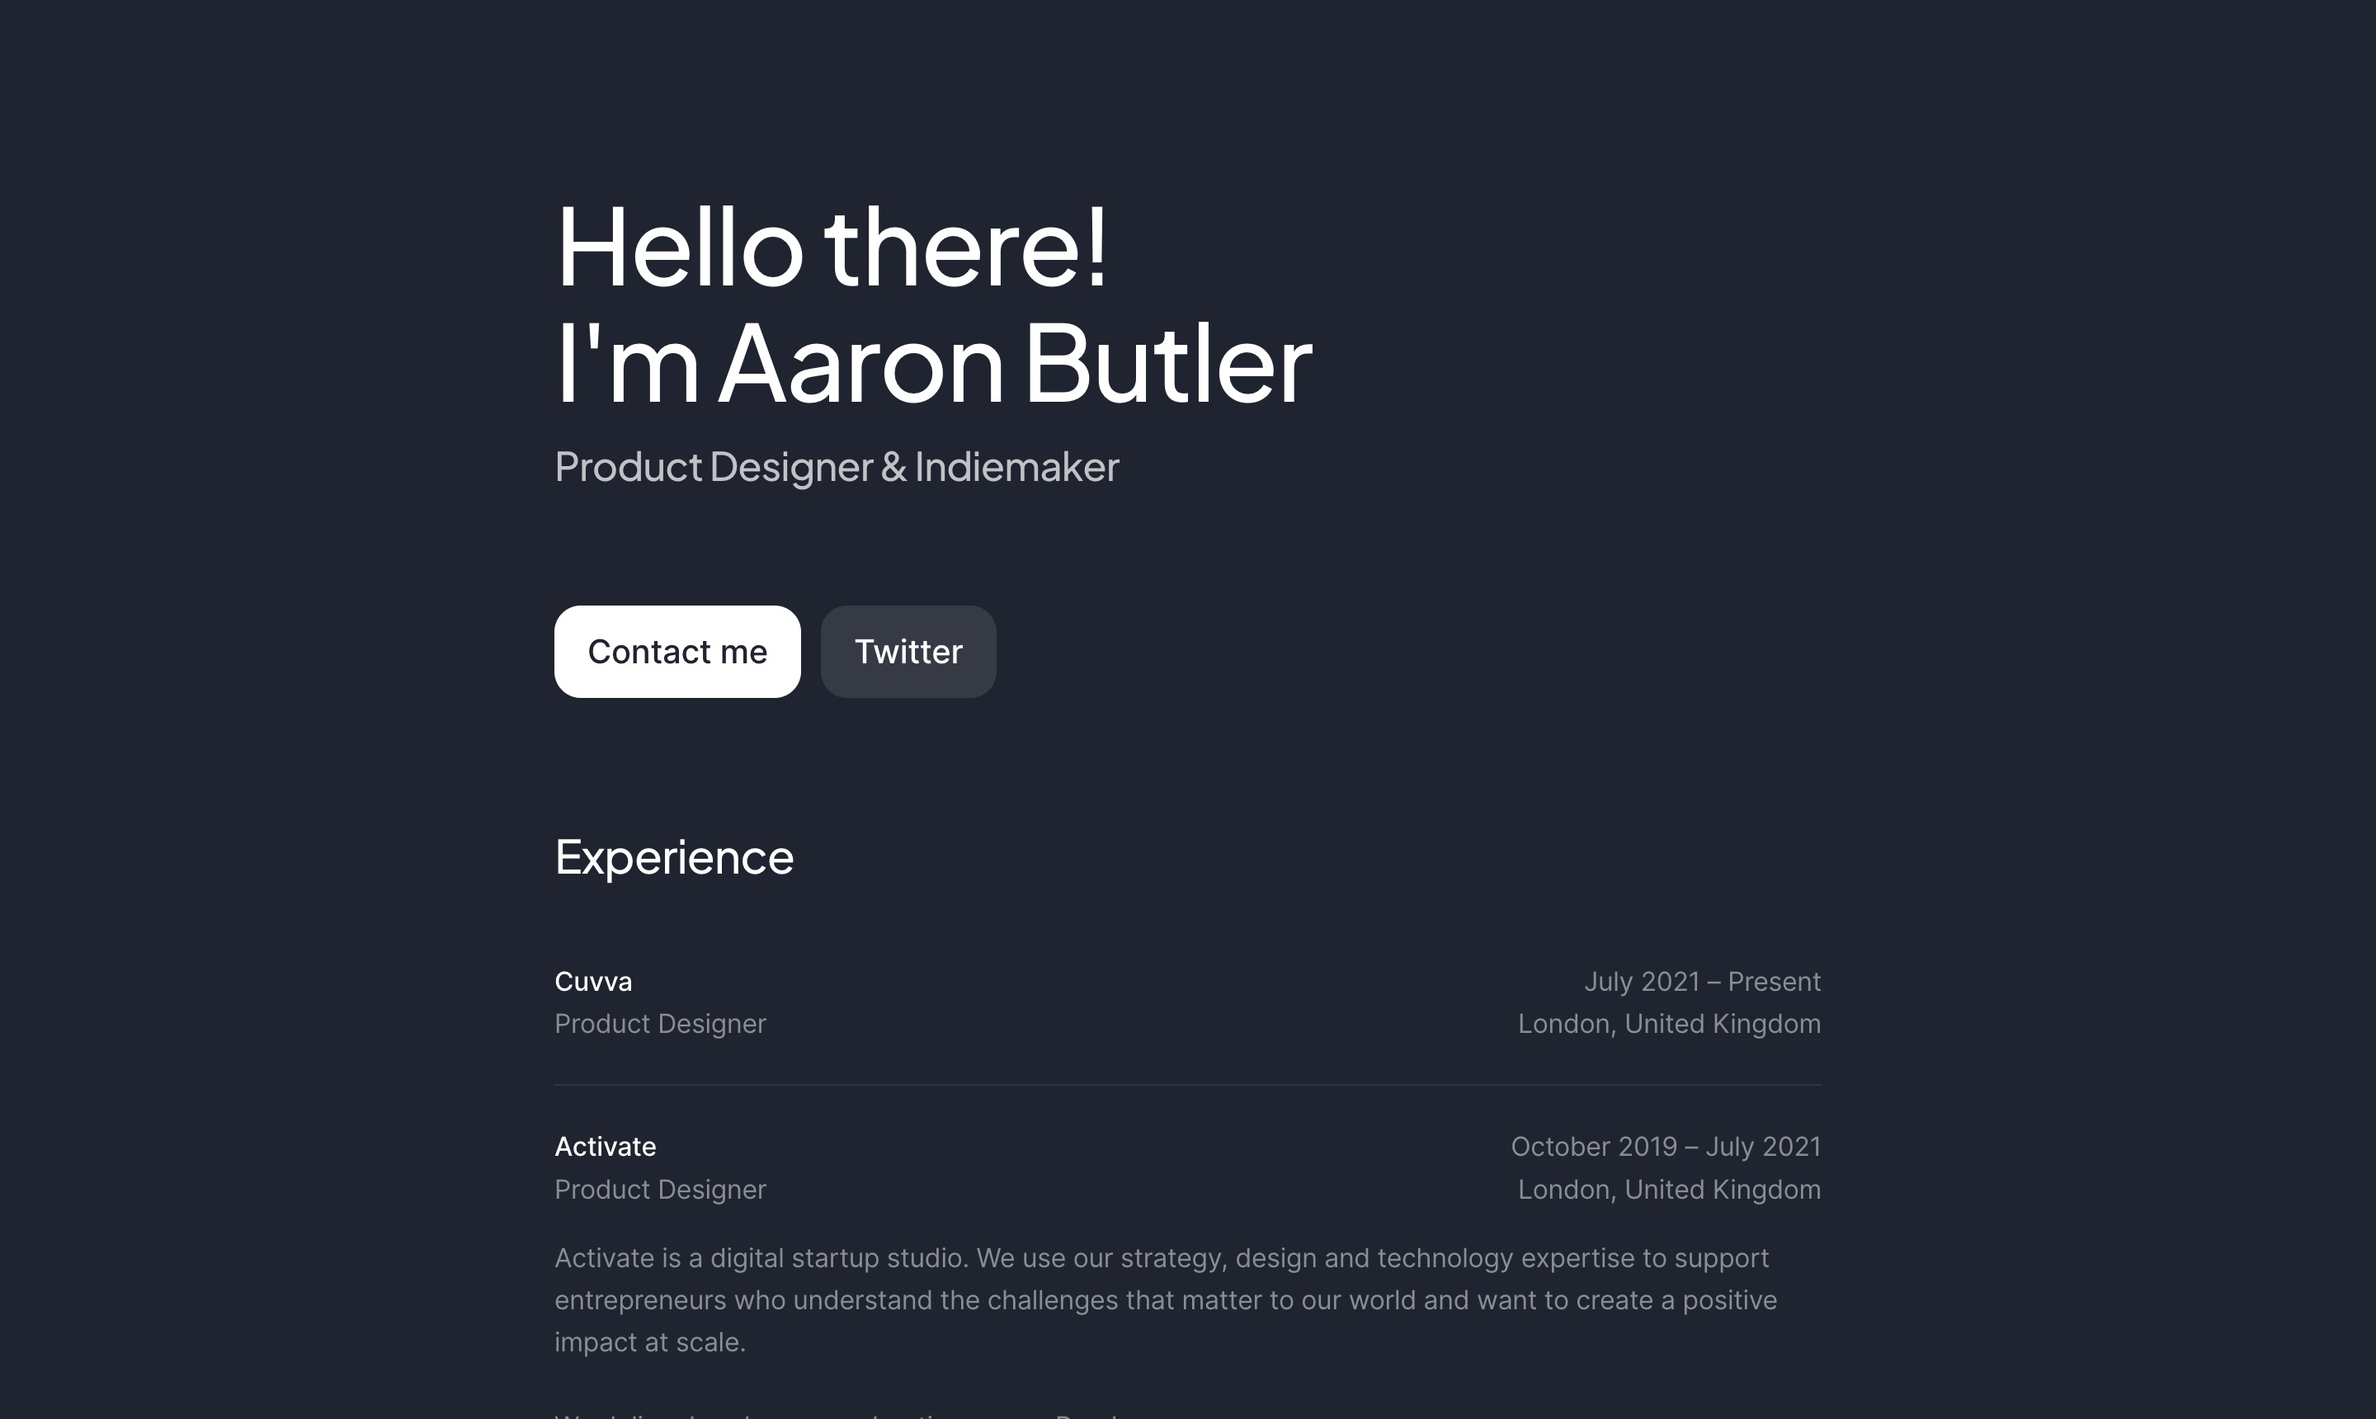
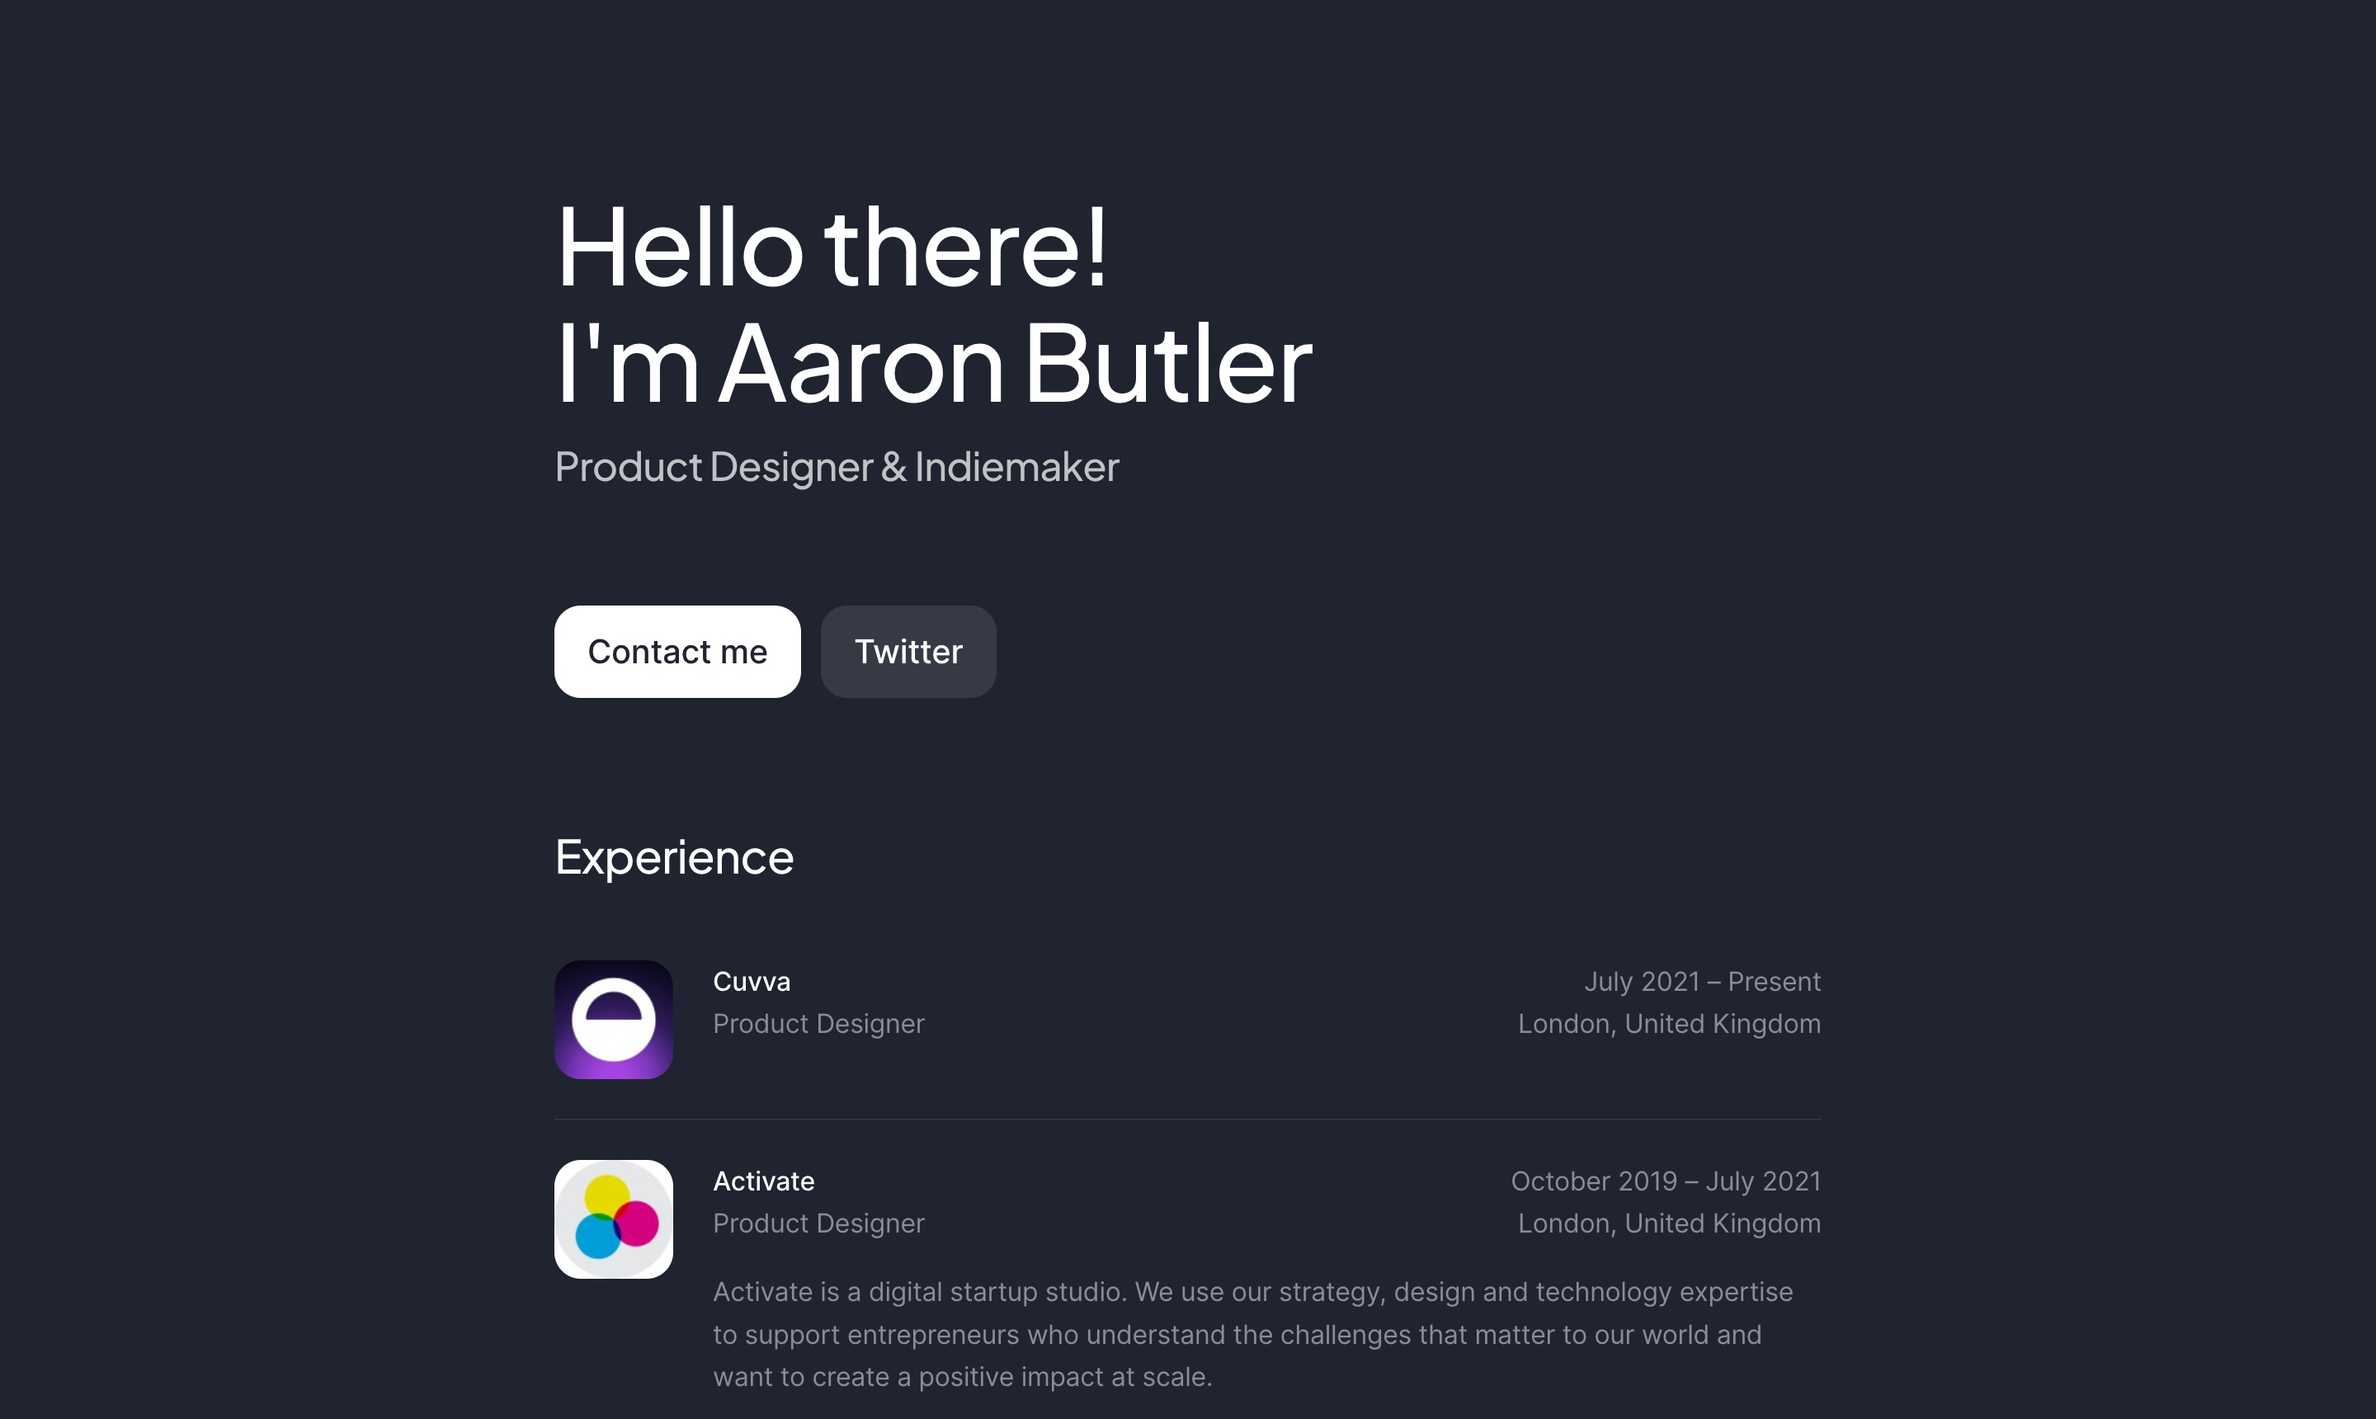
update metro profiles and previews

Changed region(s): [[0.2188, 0.8012, 0.7812, 0.986], [0.2188, 0.6779, 0.375, 0.7703]]

diff --git a/components/profile/MetroProfileDark.js b/components/profile/MetroProfileDark.js
@@ -304,8 +304,7 @@ const MetroProfileDark = (props) => {
                                     </a>
                                   </div>
                                   : null} */}
-                                {props.logoVisibility && props.logoVisibility.sideProjects ?
-                                  (sideProject.logo_url ?
+                                {sideProject.logo_url ?
                                     <div className="mb-3 mb-lg-0 mr-0 mr-lg-4">
                                       <a target="_blank" href={sideProject.url && convertToLink(sideProject.url)} className="d-block position-relative" style={{ width: '72px', height: '72px', minWidth: '72px', minHeight: '72px', maxWidth: '72px', maxHeight: '72px', overflow: 'hidden' }}>
                                         {/* <img 
@@ -333,7 +332,7 @@ const MetroProfileDark = (props) => {
                                     <div className="bg-light-200 radius-3 d-flex align-items-center justify-content-center mb-3 mb-lg-0 mr-0 mr-lg-4" style={{ width: '72px', height: '72px', minWidth: '72px', minHeight: '72px' }}>
                                       <Icon icon={ICONS.SIDE_PROJECTS} size='32' className="fill-light-700" />
                                     </div>
-                                  ) : null}
+                                  }
                                 <div className="w-100" style={props.logoVisibility && props.logoVisibility.sideProjects ? {marginTop: '10px'} : null}>
                                   <div className={`${profileStyles.jobContent}`}>
                                     <div className="">
@@ -379,8 +378,7 @@ const MetroProfileDark = (props) => {
                                     </a>
                                   </div>
                                   : null} */}
-                                {props.logoVisibility && props.logoVisibility.experience ?
-                                  (job.logo_url ?
+                                {job.logo_url ?
                                     <div className="mb-3 mb-lg-0 mr-0 mr-lg-4">
                                       <a target="_blank" href={job.company_linkedin_profile_url && convertToLink(job.company_linkedin_profile_url)} className="d-block position-relative" style={{ width: '72px', height: '72px', minWidth: '72px', minHeight: '72px', maxWidth: '72px', maxHeight: '72px', overflow: 'hidden' }}>
                                         {/* <img 
@@ -408,7 +406,7 @@ const MetroProfileDark = (props) => {
                                     <div className="bg-light-200 radius-3 d-flex align-items-center justify-content-center mb-3 mb-lg-0 mr-0 mr-lg-4" style={{ width: '72px', height: '72px', minWidth: '72px', minHeight: '72px' }}>
                                       <Icon icon={ICONS.WORK} size='32' className="fill-light-700" />
                                     </div>
-                                  ) : null}
+                                  }
                                 <div className="w-100" style={props.logoVisibility && props.logoVisibility.experience ? {marginTop: '10px'} : null}>
                                   <div className={`${profileStyles.jobContent}`}>
                                     <div className="">
@@ -502,8 +500,7 @@ const MetroProfileDark = (props) => {
                                   <img className={styles.experienceImage} src={school.logo_url ? school.logo_url : null} />
                                 </div>
                                 : null} */}
-                                {props.logoVisibility && props.logoVisibility.education ?
-                                  (school.logo_url ?
+                                {school.logo_url ?
                                     <div className="mb-3 mb-lg-0 mr-0 mr-lg-4">
                                       <a target="_blank" href={convertToLink(school.school_linkedin_profile_url)} className="d-block position-relative" style={{ width: '72px', height: '72px', minWidth: '72px', minHeight: '72px', maxWidth: '72px', maxHeight: '72px', overflow: 'hidden' }}>
                                         <img
@@ -524,10 +521,10 @@ const MetroProfileDark = (props) => {
                                       </a>
                                     </div>
                                     :
-                                    <div className="bg-light-20{0 radius-3 d-flex align-items-center justify-content-center mb-3 mb-lg-0 mr-0 mr-lg-4" style={{ width: '72px', height: '72px', minWidth: '72px', minHeight: '72px' }}>
+                                    <div className="bg-light-200 radius-3 d-flex align-items-center justify-content-center mb-3 mb-lg-0 mr-0 mr-lg-4" style={{ width: '72px', height: '72px', minWidth: '72px', minHeight: '72px' }}>
                                       <Icon icon={ICONS.SCHOOL} size='32' className="fill-light-700" />
                                     </div>
-                                  ) : null}
+                                  }
                                 <div className="w-100" style={props.logoVisibility && props.logoVisibility.education ? {marginTop: '10px'} : null}>
                                   <div className={`${profileStyles.jobContent}`}>
                                     <div className="">
@@ -571,8 +568,7 @@ const MetroProfileDark = (props) => {
                           return (
                             <div key={index} className={`${profileStyles.job} py-4`}>
                               <div className="d-flex flex-column flex-lg-row">
-                                {props.logoVisibility && props.logoVisibility.volunteering ?
-                                  (volunteer.logo_url ?
+                                {volunteer.logo_url ?
                                     <div className="mb-3 mb-lg-0 mr-0 mr-lg-4">
                                       <a target="_blank" href={convertToLink(volunteer.company_linkedin_profile_url)} className="d-block position-relative" style={{ width: '72px', height: '72px', minWidth: '72px', minHeight: '72px', maxWidth: '72px', maxHeight: '72px', overflow: 'hidden' }}>
                                         {/* <img 
@@ -600,7 +596,7 @@ const MetroProfileDark = (props) => {
                                     <div className="bg-light-200 radius-3 d-flex align-items-center justify-content-center mb-3 mb-lg-0 mr-0 mr-lg-4" style={{ width: '72px', height: '72px', minWidth: '72px', minHeight: '72px' }}>
                                       <Icon icon={ICONS.VOLUNTEERING} size='32' className="fill-light-700" />
                                     </div>
-                                  ) : null}
+                                  }
                                 <div className="w-100" style={props.logoVisibility && props.logoVisibility.volunteering ? {marginTop: '10px'} : null}>
                                   <div className={`${profileStyles.jobContent}`}>
                                     <div className="">

diff --git a/components/profile/MetroProfile.js b/components/profile/MetroProfile.js
@@ -319,8 +319,8 @@ const MetroProfile = (props) => {
                                     </a>
                                   </div>
                                   : null} */}
-                                {props.logoVisibility && props.logoVisibility.sideProjects ?
-                                  (sideProject.logo_url ?
+                                
+                                  {sideProject.logo_url ?
                                     <div className="mb-3 mb-lg-0 mr-0 mr-lg-4">
                                       <a target="_blank" href={sideProject.url && convertToLink(sideProject.url)} className="d-block position-relative" style={{ width: '72px', height: '72px', minWidth: '72px', minHeight: '72px', maxWidth: '72px', maxHeight: '72px', overflow: 'hidden' }}>
                                         {/* <img 
@@ -348,7 +348,7 @@ const MetroProfile = (props) => {
                                     <div className="bg-dark-200 radius-3 d-flex align-items-center justify-content-center mb-3 mb-lg-0 mr-0 mr-lg-4" style={{ width: '72px', height: '72px', minWidth: '72px', minHeight: '72px' }}>
                                       <Icon icon={ICONS.SIDE_PROJECTS} size='32' className="fill-dark-700" />
                                     </div>
-                                  ) : null}
+                                  }
                                 <div className="w-100" style={props.logoVisibility && props.logoVisibility.sideProjects ? {marginTop: '10px'} : null}>
                                   <div className={`${profileStyles.jobContent}`}>
                                     <div className="">
@@ -395,8 +395,7 @@ const MetroProfile = (props) => {
                                     </a>
                                   </div>
                                   : null} */}
-                                {props.logoVisibility && props.logoVisibility.experience ?
-                                  (job.logo_url ?
+                                {job.logo_url ?
                                     <div className="mb-3 mb-lg-0 mr-0 mr-lg-4">
                                       <a target="_blank" href={job.company_linkedin_profile_url && convertToLink(job.company_linkedin_profile_url)} className="d-block position-relative" style={{ width: '72px', height: '72px', minWidth: '72px', minHeight: '72px', maxWidth: '72px', maxHeight: '72px', overflow: 'hidden' }}>
                                         {/* <img 
@@ -424,7 +423,7 @@ const MetroProfile = (props) => {
                                     <div className="bg-dark-200 radius-3 d-flex align-items-center justify-content-center mb-3 mb-lg-0 mr-0 mr-lg-4" style={{ width: '72px', height: '72px', minWidth: '72px', minHeight: '72px' }}>
                                       <Icon icon={ICONS.WORK} size='32' className="fill-dark-700" />
                                     </div>
-                                  ) : null}
+                                  }
                                 <div className="w-100" style={props.logoVisibility && props.logoVisibility.experience ? {marginTop: '10px'} : null}>
                                   <div className={`${profileStyles.jobContent}`}>
                                     <div className="">
@@ -518,8 +517,7 @@ const MetroProfile = (props) => {
                                   <img className={styles.experienceImage} src={school.logo_url ? school.logo_url : null} />
                                 </div>
                                 : null} */}
-                                {props.logoVisibility && props.logoVisibility.education ?
-                                  (school.logo_url ?
+                                  {school.logo_url ?
                                     <div className="mb-3 mb-lg-0 mr-0 mr-lg-4">
                                       <a target="_blank" href={convertToLink(school.school_linkedin_profile_url)} className="d-block position-relative" style={{ width: '72px', height: '72px', minWidth: '72px', minHeight: '72px', maxWidth: '72px', maxHeight: '72px', overflow: 'hidden' }}>
                                         <img
@@ -540,10 +538,10 @@ const MetroProfile = (props) => {
                                       </a>
                                     </div>
                                     :
-                                    <div className="bg-dark-20{0 radius-3 d-flex align-items-center justify-content-center mb-3 mb-lg-0 mr-0 mr-lg-4" style={{ width: '72px', height: '72px', minWidth: '72px', minHeight: '72px' }}>
+                                    <div className="bg-dark-200 radius-3 d-flex align-items-center justify-content-center mb-3 mb-lg-0 mr-0 mr-lg-4" style={{ width: '72px', height: '72px', minWidth: '72px', minHeight: '72px' }}>
                                       <Icon icon={ICONS.SCHOOL} size='32' className="fill-dark-700" />
                                     </div>
-                                  ) : null}
+                                  }
                                 <div className="w-100" style={props.logoVisibility && props.logoVisibility.education ? {marginTop: '10px'} : null}>
                                   <div className={`${profileStyles.jobContent}`}>
                                     <div className="">
@@ -587,8 +585,7 @@ const MetroProfile = (props) => {
                           return (
                             <div key={index} className={`${profileStyles.job} py-4`}>
                               <div className="d-flex flex-column flex-lg-row">
-                                {props.logoVisibility && props.logoVisibility.volunteering ?
-                                  (volunteer.logo_url ?
+                                  {volunteer.logo_url ?
                                     <div className="mb-3 mb-lg-0 mr-0 mr-lg-4">
                                       <a target="_blank" href={convertToLink(volunteer.company_linkedin_profile_url)} className="d-block position-relative" style={{ width: '72px', height: '72px', minWidth: '72px', minHeight: '72px', maxWidth: '72px', maxHeight: '72px', overflow: 'hidden' }}>
                                         {/* <img 
@@ -616,7 +613,7 @@ const MetroProfile = (props) => {
                                     <div className="bg-dark-200 radius-3 d-flex align-items-center justify-content-center mb-3 mb-lg-0 mr-0 mr-lg-4" style={{ width: '72px', height: '72px', minWidth: '72px', minHeight: '72px' }}>
                                       <Icon icon={ICONS.VOLUNTEERING} size='32' className="fill-dark-700" />
                                     </div>
-                                  ) : null}
+                                  }
                                 <div className="w-100" style={props.logoVisibility && props.logoVisibility.volunteering ? {marginTop: '10px'} : null}>
                                   <div className={`${profileStyles.jobContent}`}>
                                     <div className="">
